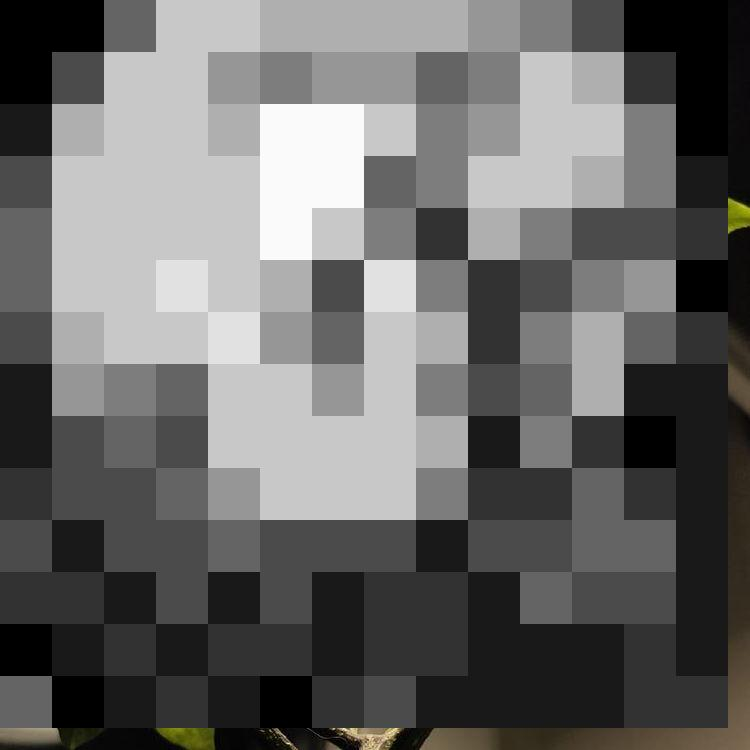
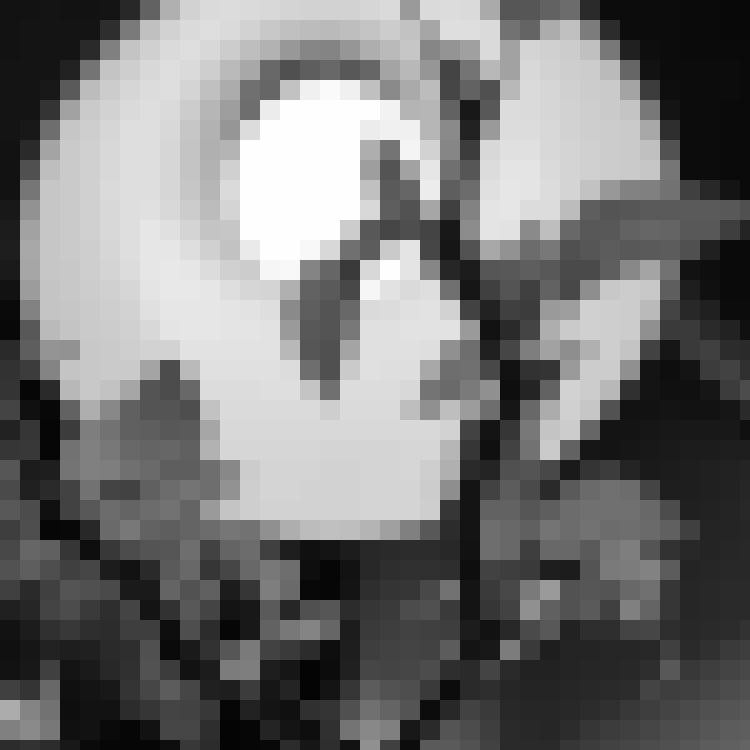
Ручные циклы по возможности были заменены на матричные преобразования

diff --git a/filter.py b/filter.py
@@ -4,42 +4,25 @@ import numpy as np
 
 def do_filter(count_gradations, mosaic_size):
     img = Image.open("img2.jpg")
-    arr = np.array(img)
-    width = len(arr)
-    height = len(arr[1])
-    gradations = 255 // count_gradations
-    pixel_x = 0
+    array = np.array(img)
+    size_img = array.shape
 
-    def find_average_brightness(array, px_width, px_height, mosaic):
-        sum_brightness = 0
-        for cell_pixel_x in range(px_width, px_width + mosaic):
-            for cell_pixel_y in range(px_height, px_height + mosaic):
-                px_coord = array[cell_pixel_x][cell_pixel_y]
-                r = px_coord[0]
-                g = px_coord[1]
-                b = px_coord[2]
-                median = r // 3 + g // 3 + b // 3
-                sum_brightness += median
-        average_bright = int(sum_brightness // mosaic_size ** 2)
-        return average_bright
+    for i in range(0, size_img[0], mosaic_size):
+        for j in range(0, size_img[1], mosaic_size):
+            paint_cell(array, i, j, mosaic_size, count_gradations)
 
-    def paint_cell(array, px_width, px_height, mosaic):
-        for cell_pixel_x in range(px_width, px_width + mosaic):
-            for cell_pixel_y in range(px_height, px_height + mosaic):
-                px_coord = array[cell_pixel_x][cell_pixel_y]
-                px_coord[0] = int(average_brightness // gradations) * gradations
-                px_coord[1] = int(average_brightness // gradations) * gradations
-                px_coord[2] = int(average_brightness // gradations) * gradations
-
-    while pixel_x < width - mosaic_size + 1:
-        pixel_y = 0
-        while pixel_y < height - mosaic_size + 1:
-            average_brightness = find_average_brightness(arr, pixel_x, pixel_y, mosaic_size)
-            paint_cell(arr, pixel_x, pixel_y, mosaic_size)
-            pixel_y = pixel_y + mosaic_size
-        pixel_x = pixel_x + mosaic_size
-    res = Image.fromarray(arr)
+    res = Image.fromarray(array)
     res.save('res.jpg')
 
 
-do_filter(10, 52)
+def find_average_brightness(arr, px_width, px_height, mosaic):
+    return np.average(arr[px_width: px_width + mosaic, px_height: px_height + mosaic])
+
+
+def paint_cell(arr, width, height, mosaic_size, count_gradations):
+    gradations = 255 // count_gradations
+    average_brightness = find_average_brightness(arr, width, height, mosaic_size)
+    arr[width: width + mosaic_size, height: height + mosaic_size] = average_brightness // gradations * gradations
+
+
+do_filter(100, 20)
